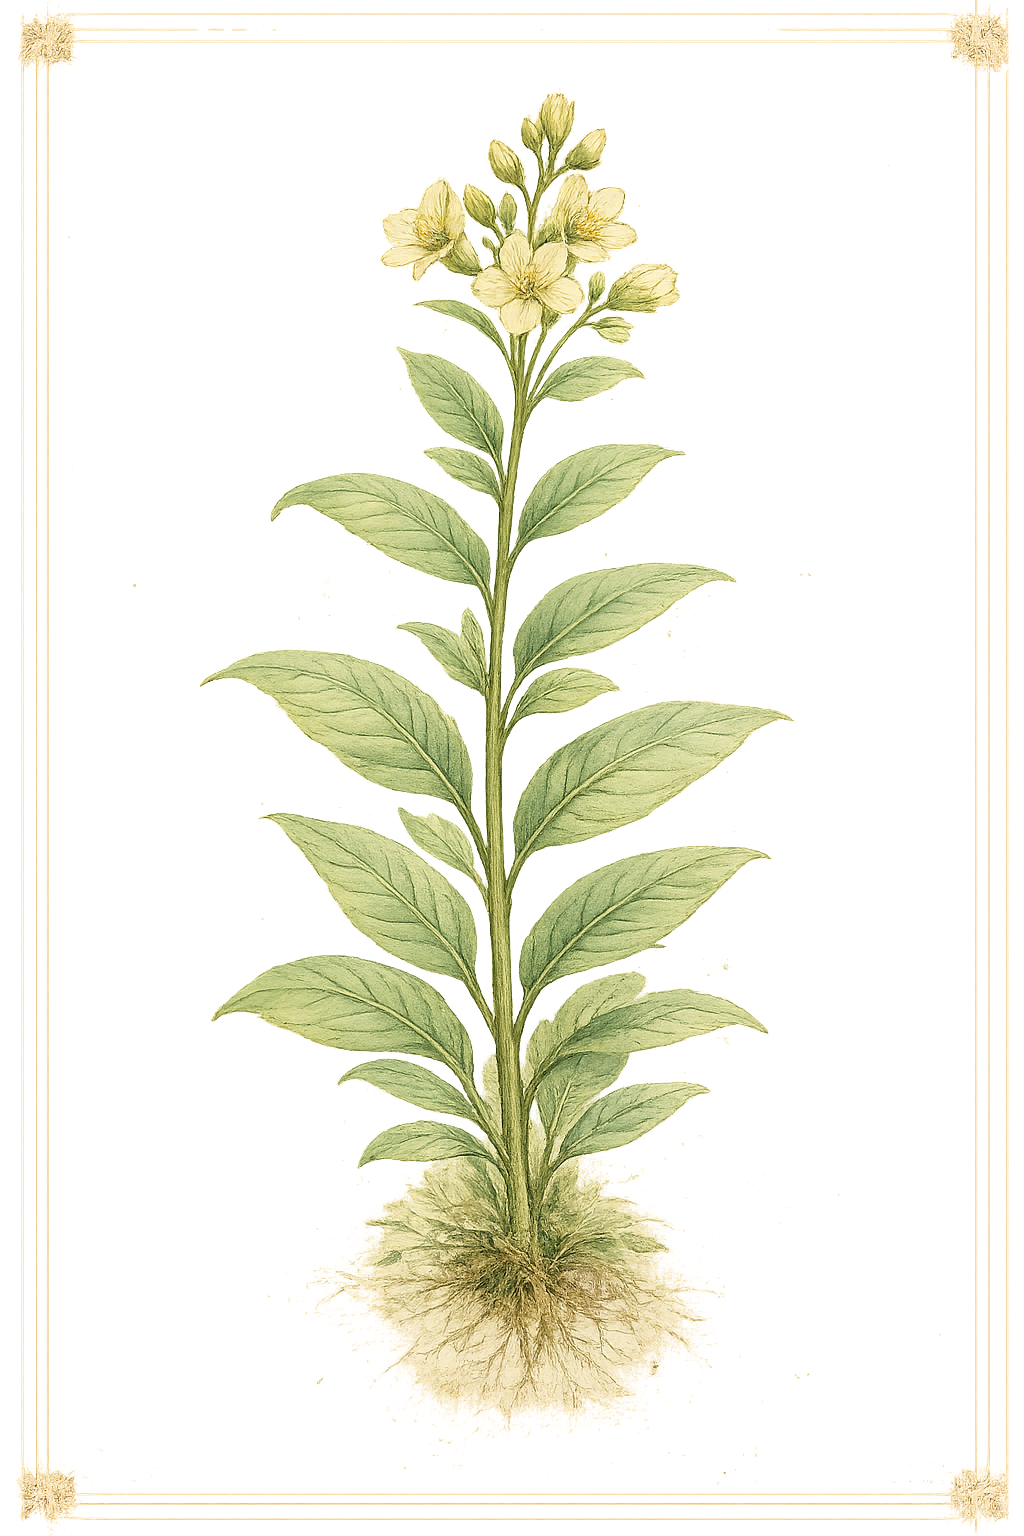
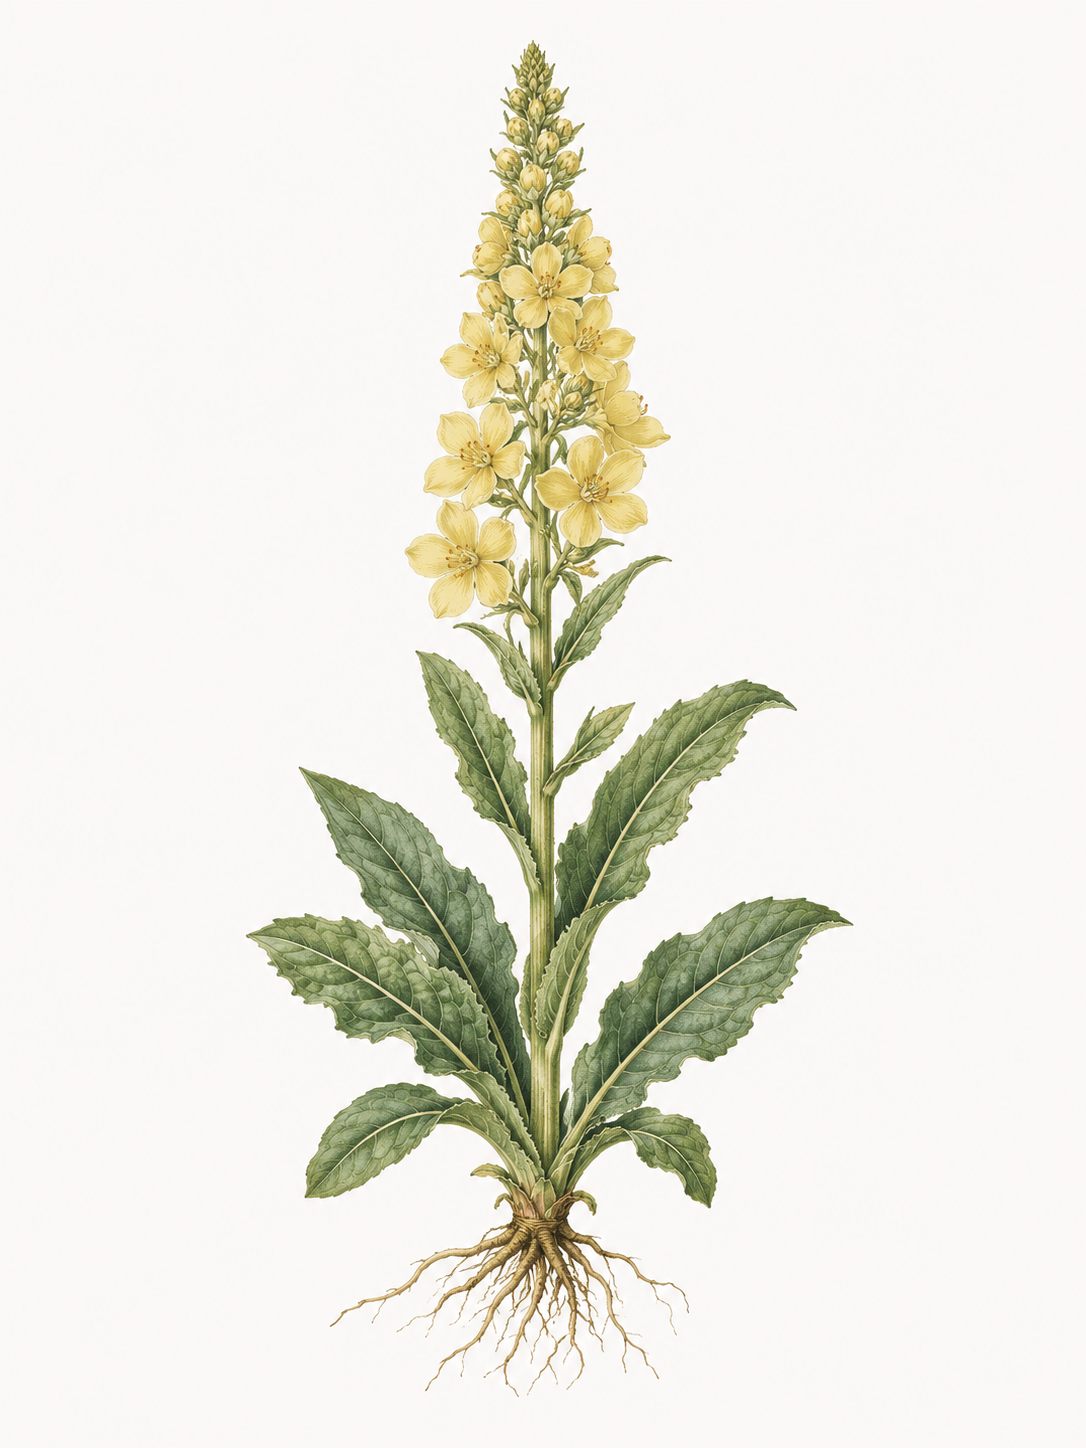
Replace home hero plant artwork

Changed region(s): [[0.0, 0.0, 1.0, 0.9945], [0.0, 0.0, 0.1875, 0.0622]]

diff --git a/src/styles/home-mock-pc.css b/src/styles/home-mock-pc.css
@@ -111,22 +111,21 @@
     position: relative;
     z-index: 1;
     margin: 0;
-    width: 178px;
-    height: 248px;
+    width: min(190p , 100%);
     justify-self: center;
     align-self: center;
-    overflow: hidden;
+    overflow: visible;
   }
 
   .home-hero-plant img{
     display: block;
-    width: 142%;
-    max-width: none;
-    height: 142%;
-    object-fit: cover;
+    width: 100%;
+    height: auto;
+    object-fit: contain;
     object-position: center center;
-    transform: translate(-14%, -15%);
+    transform: none;
     filter: saturate(.9) sepia(.08);
+    mix-blend-mode: multiply;
   }
 
   .home-hero-cabinet-image{
